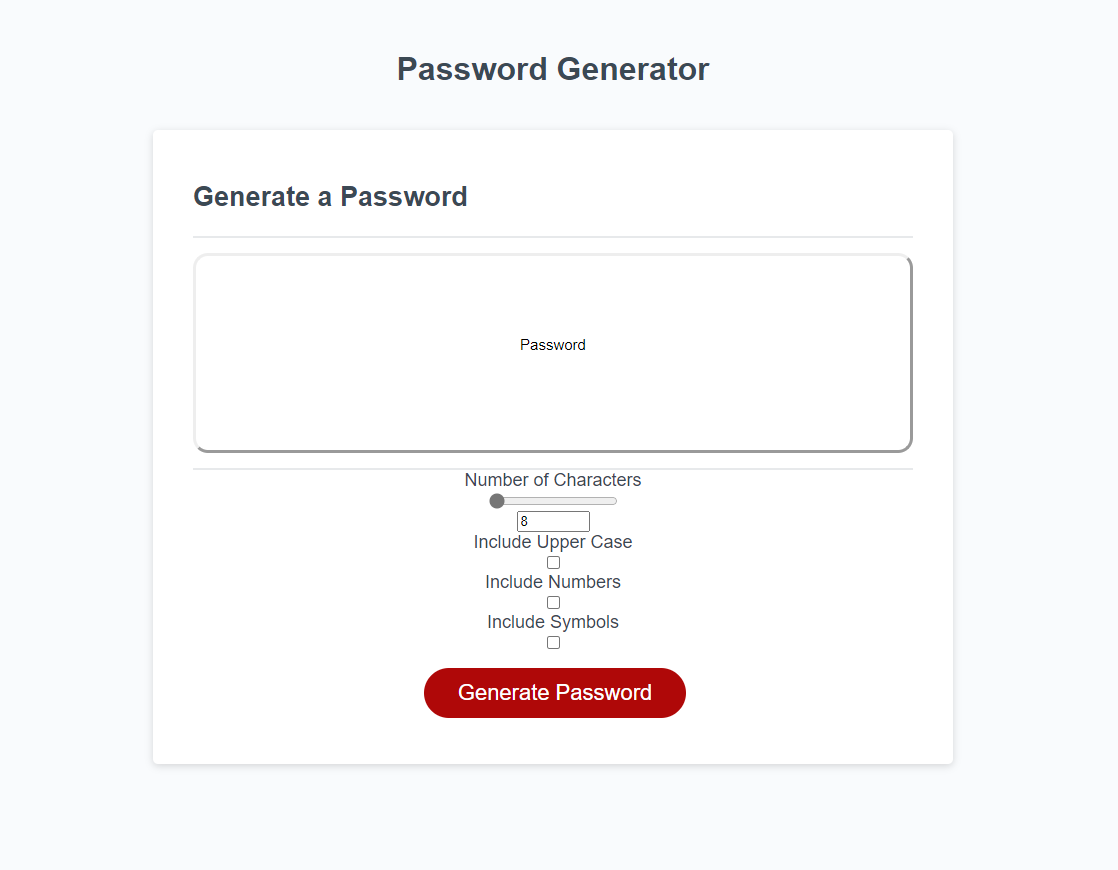
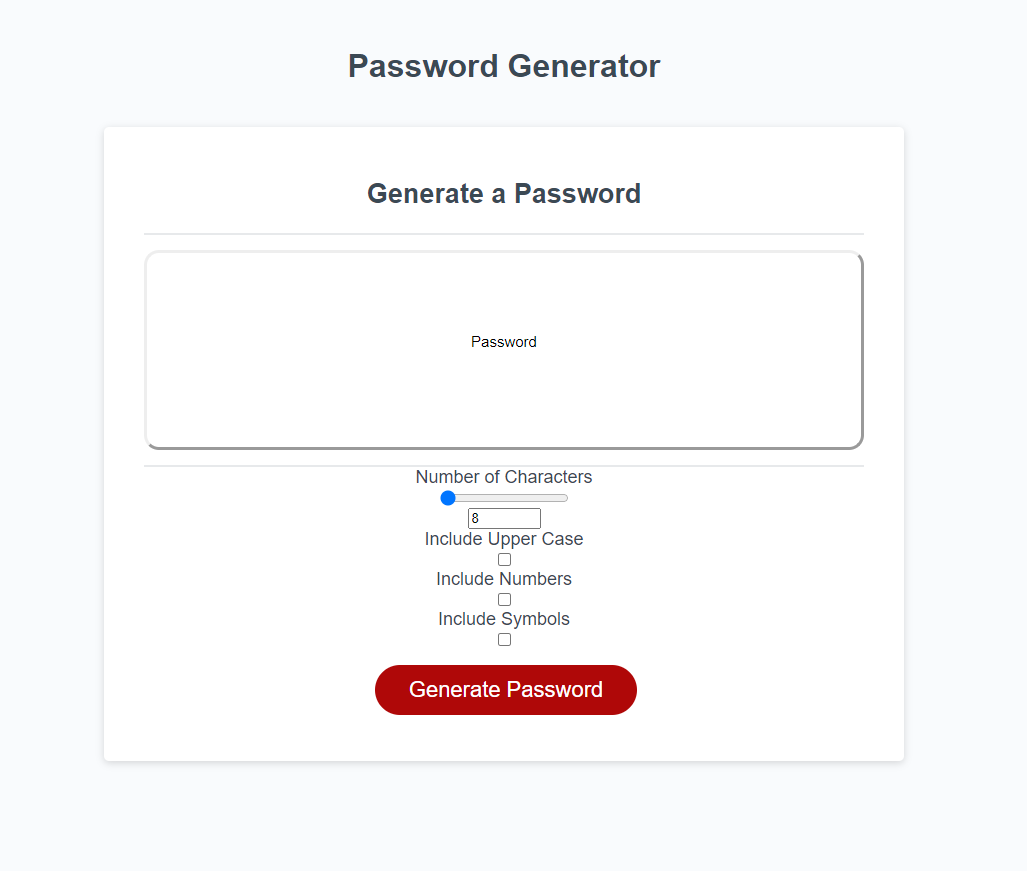
final edit

diff --git a/assets/css/style.css b/assets/css/style.css
@@ -12,6 +12,10 @@ body,
   padding: 0;
 }
 
+h2 {
+  text-align: center;
+}
+
 body {
   font-family: sans-serif;
   background-color: #f9fbfd;
